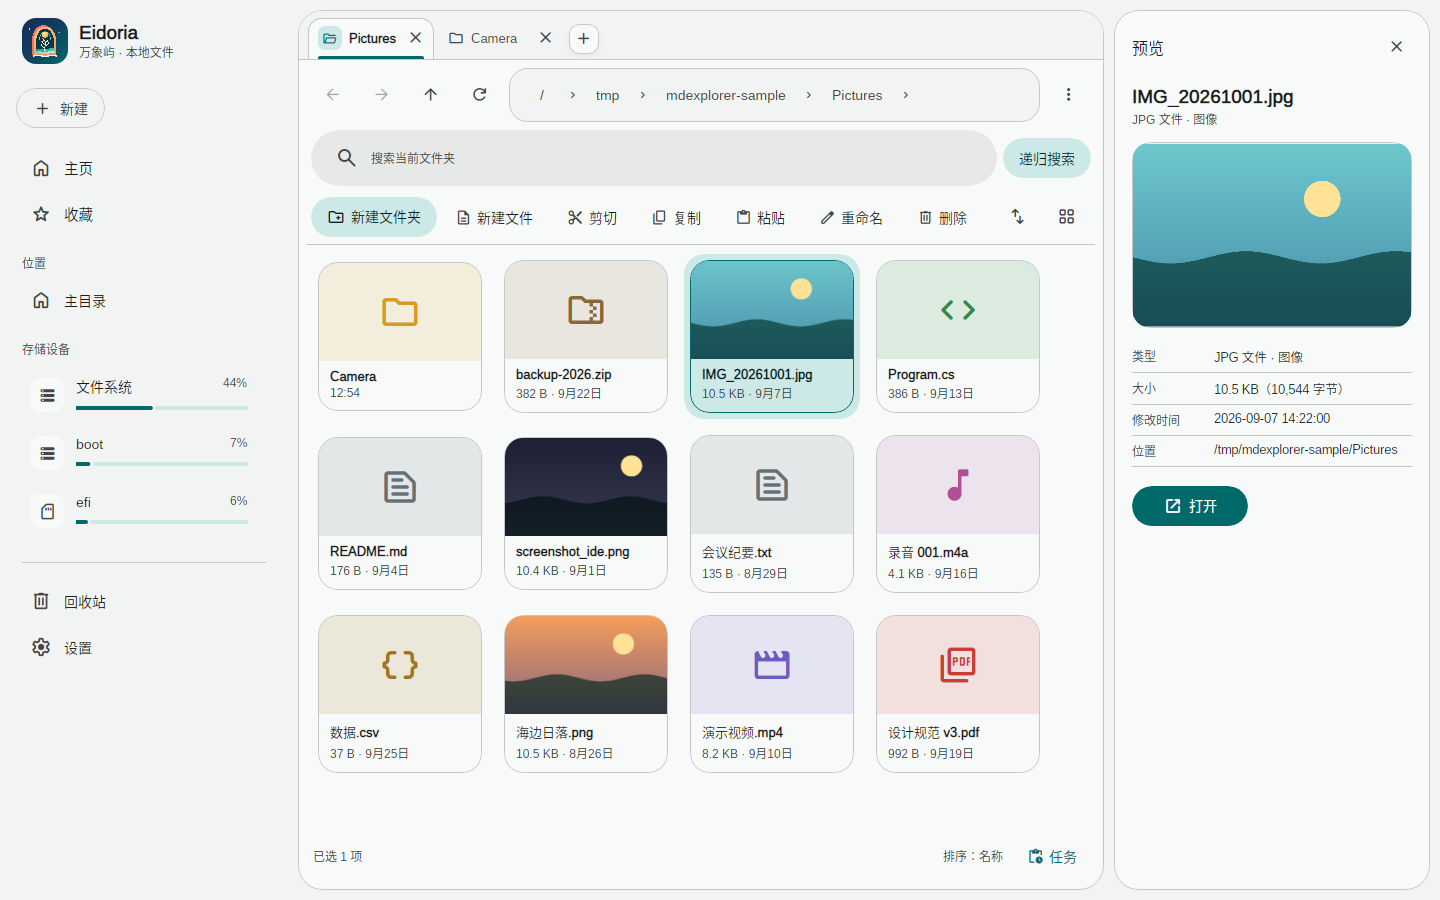
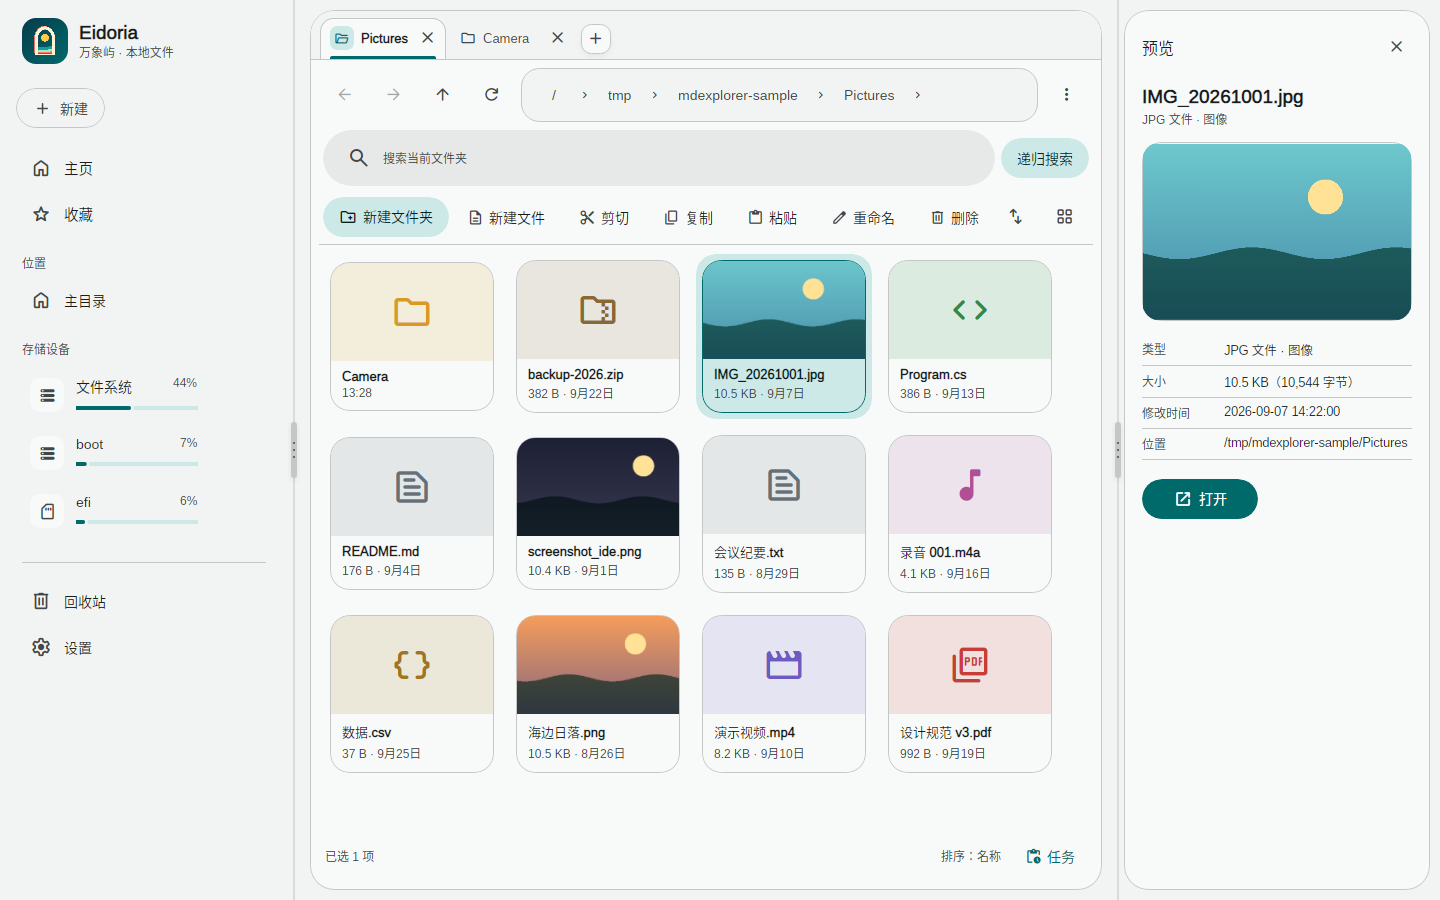
docs: 归档 v0.9 截图与版本记录

diff --git a/README.md b/README.md
@@ -4,7 +4,7 @@
 
 基于 **Avalonia 12 + .NET 10** 的跨平台（Windows / Linux / Android）**本地**文件资源管理器，采用 **Material Design 3**（`Md3.Avalonia`）设计语言，按窗口尺寸类做真响应式（Adaptive）布局：底部导航栏（Compact）→ 导轨（Medium）→ 永久抽屉 + 预览侧栏（Expanded+）。核心层平台无关，平台能力经接口适配；许可证 Apache-2.0（见 `LICENSE`）。
 
-> **状态：v0.8**——浏览/搜索/预览（图片、文本、**Markdown 渲染、代码高亮、PDF 分页**、ZIP 条目）/复制移动删除（含回收站语义）/ZIP/收藏/设置已可用；v0.2 新增文件夹外部变更自动刷新、文件夹大小、校验和与批量重命名；**v0.3 新增 Android SAF 授权文件夹浏览**；**v0.4 新增详细信息视图**；**v0.5 新增拖放与系统剪贴板互通**；**v0.6 新增浏览器标签页与 PDF 分页预览，并将产品品牌定为 Eidoria（万象屿）**（名称与图标见 `docs/BRAND.md`；仓库、命名空间、Android ApplicationId 与数据目录仍保留内部代号 MdExplorer 以兼容既有数据）；**v0.7 新增串行任务中心、可编辑地址栏、最近访问与标签页恢复**；**v0.8 按概念稿重塑视觉层级：柔和底板承载白色工作区与预览浮动卡，标签页改为与工作区同面相连的浏览器式页签，路径胶囊、类型色图标井、圆角文件卡与精确 `MdList` 选中态统一收敛，Compact 将标签轨与面包屑折叠为当前目录**。标签页各自保存路径、前进/后退栈、过滤词与选集，并可跨启动恢复；PDF 预览采用 MIT 许可的 PDFtoImage/PDFium 按页光栅化（Android 内置预览需 API 31+）。音视频播放为后续里程碑；**插件系统与本地 AI 两条轨道已完成评估、仍排在核心完善之后**。
+> **状态：v0.8**——浏览/搜索/预览（图片、文本、**Markdown 渲染、代码高亮、PDF 分页**、ZIP 条目）/复制移动删除（含回收站语义）/ZIP/收藏/设置已可用；v0.2 新增文件夹外部变更自动刷新、文件夹大小、校验和与批量重命名；**v0.3 新增 Android SAF 授权文件夹浏览**；**v0.4 新增详细信息视图**；**v0.5 新增拖放与系统剪贴板互通**；**v0.6 新增浏览器标签页与 PDF 分页预览，并将产品品牌定为 Eidoria（万象屿）**（名称与图标见 `docs/BRAND.md`；仓库、命名空间、Android ApplicationId 与数据目录仍保留内部代号 MdExplorer 以兼容既有数据）；**v0.7 新增串行任务中心、可编辑地址栏、最近访问与标签页恢复**；**v0.8 按概念稿重塑视觉层级：柔和底板承载白色工作区与预览浮动卡，标签页改为与工作区同面相连的浏览器式页签，路径胶囊、类型色图标井、圆角文件卡与精确 `MdList` 选中态统一收敛，Compact 将标签轨与面包屑折叠为当前目录**；**v0.9 换装极简新 Logo（深湖拱门·金日屿浪），三栏加入自研 Material 分隔条（拖动/键盘调整并持久化宽度，原型将回流 Md3.Avalonia），目录切换/页面与侧栏补齐入场与点击动效，插件脚本完成 Lua 优先评估（MoonSharp spike、Python 走进程外）**。标签页各自保存路径、前进/后退栈、过滤词与选集，并可跨启动恢复；PDF 预览采用 MIT 许可的 PDFtoImage/PDFium 按页光栅化（Android 内置预览需 API 31+）。音视频播放为后续里程碑；**插件系统与本地 AI 两条轨道已完成评估、仍排在核心完善之后**。
 
 ## 效果（CI 无头渲染实拍，归档于 `docs/assets/screenshots/`，含 Markdown/代码/批量重命名/详细信息视图/拖放提示/标签页/PDF/地址栏/任务中心/精修主页 共 21 张）
 
